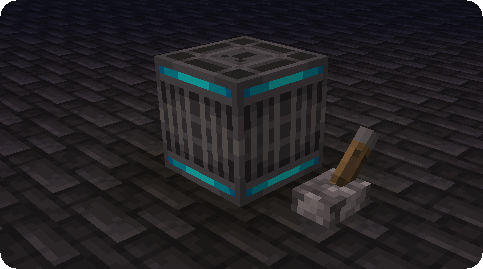
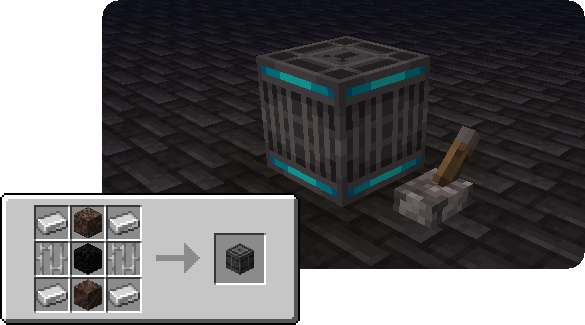
Added Soul Swapper Recipe

diff --git a/wiki/charter.md b/wiki/charter.md
@@ -46,7 +46,7 @@ Soul Strain is a new status effect meant to punish the player by **doubling the 
 
 The Soul Swapper **swaps the 2 blocks on either end of it** on redstone input, emitting light once activated. If the 2 blocks are **[Pact Vessels](#-pact-vessel) holding [Contracts](#-contract)**, the 2 corresponding players will **switch bodies**, changing positions and bodies.
 
-*Soul Swappers do not have a crafting recipe yet. Use datapacks, custom commands or shops to make this content accessible!*
+Soul Swappers can be made using 4 Iron Ingots and 2 Iron Bars for the sides as well as 2 Soul Sand or Soul Soil blocks with 1 Coal Block in between for the middle.
 
 ![Active Soul Swapper](charter/SoulSwapper.png)
 
